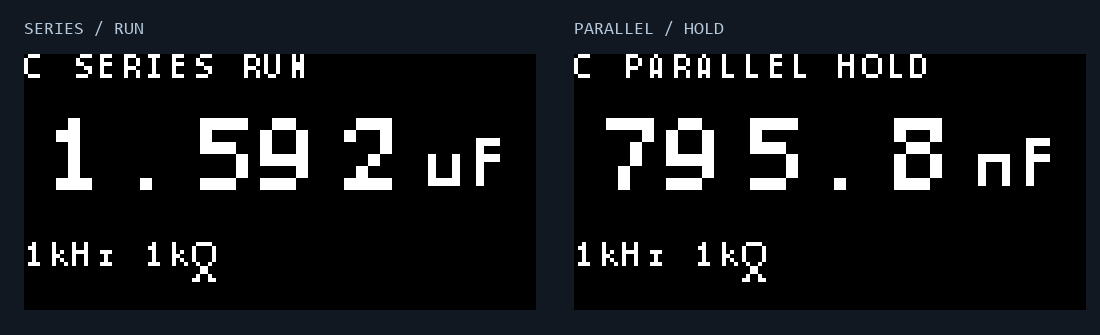
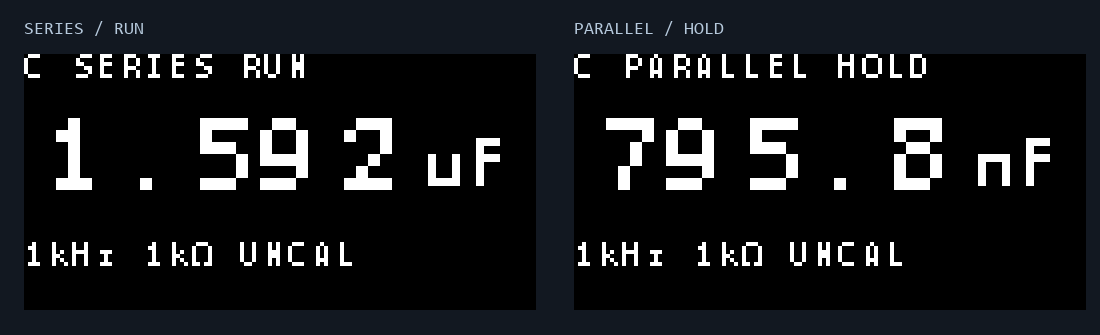
feat(ui): rasterize U+03A9 from Consolas for ohm units; restore CAL/UNCAL on measure line

Changed region(s): [[0.1545, 0.7164, 0.34, 0.8358], [0.68, 0.7164, 0.8345, 0.8358]]

diff --git a/firmware_next/src/lcr_ui.c b/firmware_next/src/lcr_ui.c
@@ -54,8 +54,6 @@ unsigned lcr_keys_poll(lcr_keys *keys, unsigned raw, uint32_t now) {
 }
 
 void lcr_canvas_clear(lcr_canvas *canvas) { memset(canvas, 0, sizeof(*canvas)); }
-static const uint16_t lcr_omega_glyph[6] = {0x21Eu,0x321u,0x0C1u,0x0C1u,0x321u,0x21Eu};
-
 static void pixel(lcr_canvas *canvas, unsigned x, unsigned y) {
     if (x < 128u && y < 64u) canvas->pixels[(y / 8u) * 128u + x] |= (uint8_t)(1u << (y % 8u));
 }
@@ -66,7 +64,7 @@ void lcr_canvas_text(lcr_canvas *canvas, unsigned x, unsigned y, const char *tex
         if (ch == 0x7fu) {
             for (unsigned col = 0u; col < 6u; ++col)
                 for (unsigned row = 0u; row < 10u; ++row)
-                    if (lcr_omega_glyph[col] & (1u << row))
+                    if (lcr_font_omega[col] & (1u << row))
                         for (unsigned a = 0u; a < scale; ++a)
                             for (unsigned b = 0u; b < scale; ++b)
                                 pixel(canvas, x + col * scale + a, y + row * scale + b);
@@ -192,7 +190,9 @@ void lcr_ui_measure(lcr_canvas *c, const lcr_measurement *m, lcr_model model, co
             if (rf >= 1000000ul) (void)snprintf(rbuf, sizeof(rbuf), "%luM\x7f", rf / 1000000ul);
             else if (rf >= 1000ul) (void)snprintf(rbuf, sizeof(rbuf), "%luk\x7f", rf / 1000ul);
             else (void)snprintf(rbuf, sizeof(rbuf), "%lu\x7f", rf);
-            (void)snprintf(text, sizeof(text), "%s %s", fbuf, rbuf);
+            const int calibrated = (m->calibration_flags & (LCR_CAL_CHANNEL | LCR_CAL_FEEDBACK)) ==
+                                (LCR_CAL_CHANNEL | LCR_CAL_FEEDBACK);
+            (void)snprintf(text, sizeof(text), "%s %s %s", fbuf, rbuf, calibrated ? "CAL" : "UNCAL");
             lcr_canvas_text(c, 0u, info_y, text, 1u);
         }
     } else lcr_canvas_text(c, 0u, 47u, "KEY:START HOLD:MENU", 1u);

diff --git a/tools/rewrite/make_font.py b/tools/rewrite/make_font.py
@@ -4,12 +4,21 @@ from PIL import Image, ImageDraw, ImageFont
 
 root = Path(__file__).resolve().parents[2]
 font = ImageFont.truetype('C:/Windows/Fonts/consola.ttf', 9)
+def raster(ch):
+    canvas = Image.new('1', (6, 10))
+    ImageDraw.Draw(canvas).text((0, -1), ch, font=font, fill=1)
+    return [sum(int(canvas.getpixel((x, y))) << y for y in range(10)) for x in range(6)]
+
 rows = []
 for code in range(32, 127):
-    canvas = Image.new('1', (6, 10))
-    ImageDraw.Draw(canvas).text((0, -1), chr(code), font=font, fill=1)
-    columns = [sum(int(canvas.getpixel((x, y))) << y for y in range(10)) for x in range(6)]
+    columns = raster(chr(code))
     rows.append('    {' + ','.join(f'0x{v:03x}u' for v in columns) + '},')
+# The ASCII atlas has no U+03A9; rasterize the same Consolas face so resistance
+# units read kΩ/MΩ on the panel instead of spelling "OHM".
+omega = raster('\u03a9')
 target = root / 'firmware_next/include/lcr_font_data.h'
 target.write_text('/* Generated bitmap glyphs; run tools/rewrite/make_font.py. */\n'
-                  'static const uint16_t lcr_font[95][6] = {\n' + '\n'.join(rows) + '\n};\n', encoding='utf-8')
+                  'static const uint16_t lcr_font[95][6] = {\n' + '\n'.join(rows) + '\n};\n'
+                  '/* U+03A9 OHM SIGN, same 6x10 rasterizer as the ASCII glyphs. */\n'
+                  'static const uint16_t lcr_font_omega[6] = {' +
+                  ','.join(f'0x{v:03x}u' for v in omega) + '};\n', encoding='utf-8')

diff --git a/firmware_next/include/lcr_font_data.h b/firmware_next/include/lcr_font_data.h
@@ -96,3 +96,5 @@ static const uint16_t lcr_font[95][6] = {
     {0x000u,0x081u,0x0f7u,0x008u,0x000u,0x000u},
     {0x008u,0x018u,0x010u,0x018u,0x000u,0x000u},
 };
+/* U+03A9 OHM SIGN, same 6x10 rasterizer as the ASCII glyphs. */
+static const uint16_t lcr_font_omega[6] = {0x03eu,0x021u,0x001u,0x021u,0x03eu,0x000u};
